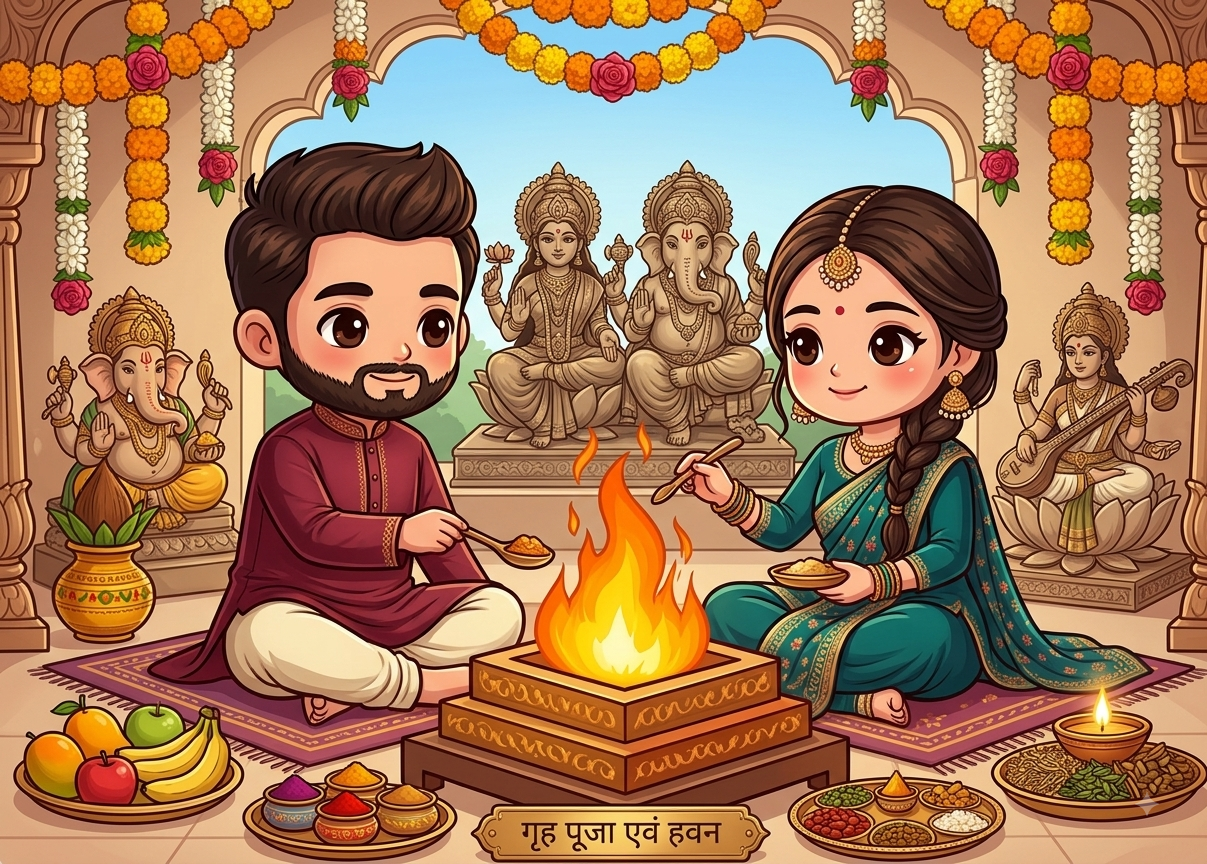
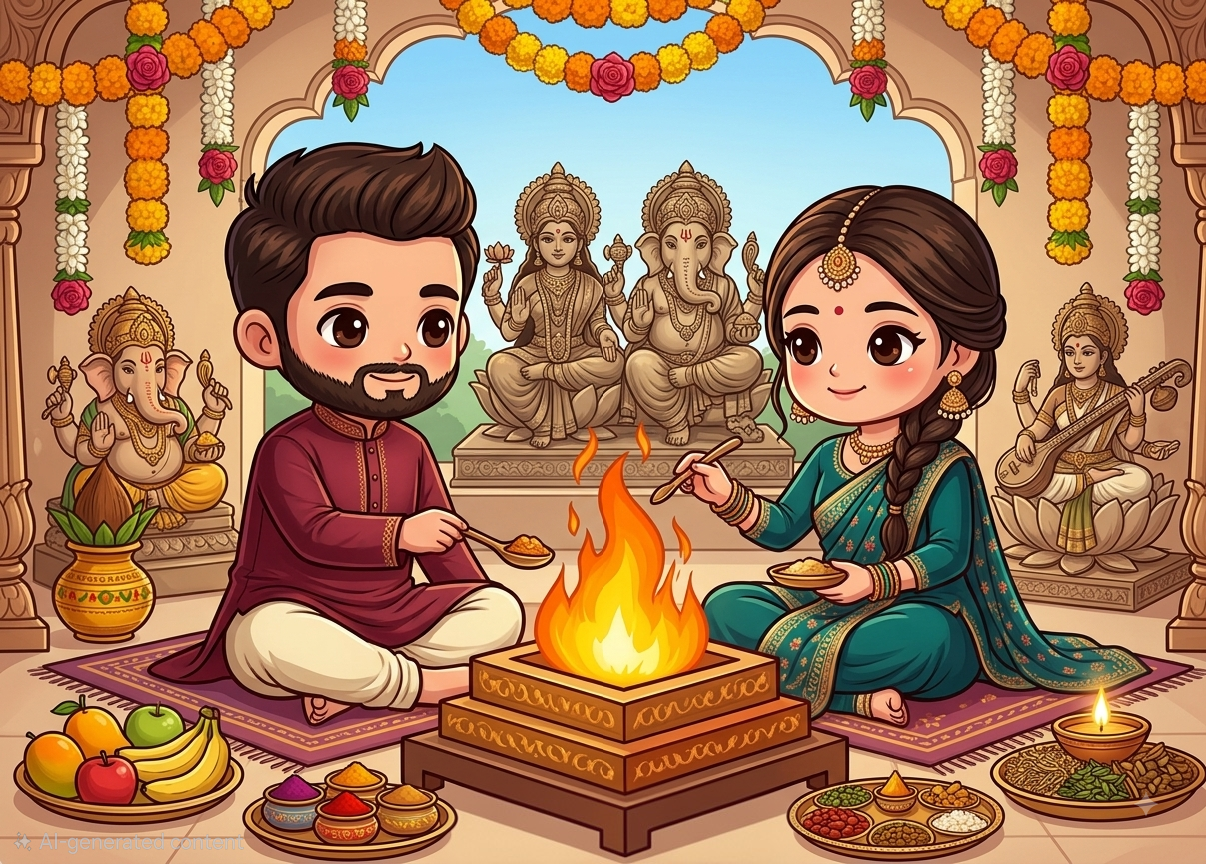
Shrink schedule card images and swap in the final Ganesh & Mata Poojan art
Schedule illustrations now crop to 16:9 instead of a full square,
cutting the height of each card substantially so the schedule section
scrolls much shorter.

diff --git a/index.html b/index.html
@@ -1379,10 +1379,10 @@
 
         const slug = ev.name.toLowerCase().replace(/[^a-z0-9]+/g, '-').replace(/(^-|-$)/g, '');
         const frame = el('div', 'frame');
-        frame.style.aspectRatio = '1/1';
+        frame.style.aspectRatio = '16/9';
         const ph = el('div', 'ph');
         ph.appendChild(el('span', 'eyebrow text-sage-700', 'Add illustration'));
-        ph.appendChild(el('span', 'text-xs text-ink-faint', slug + '.png · square, 1600×1600'));
+        ph.appendChild(el('span', 'text-xs text-ink-faint', slug + '.png · landscape, 1600×900'));
         const img = el('img', 'w-full h-full object-cover');
         frame.append(ph, img);
         if (ev.img) {
